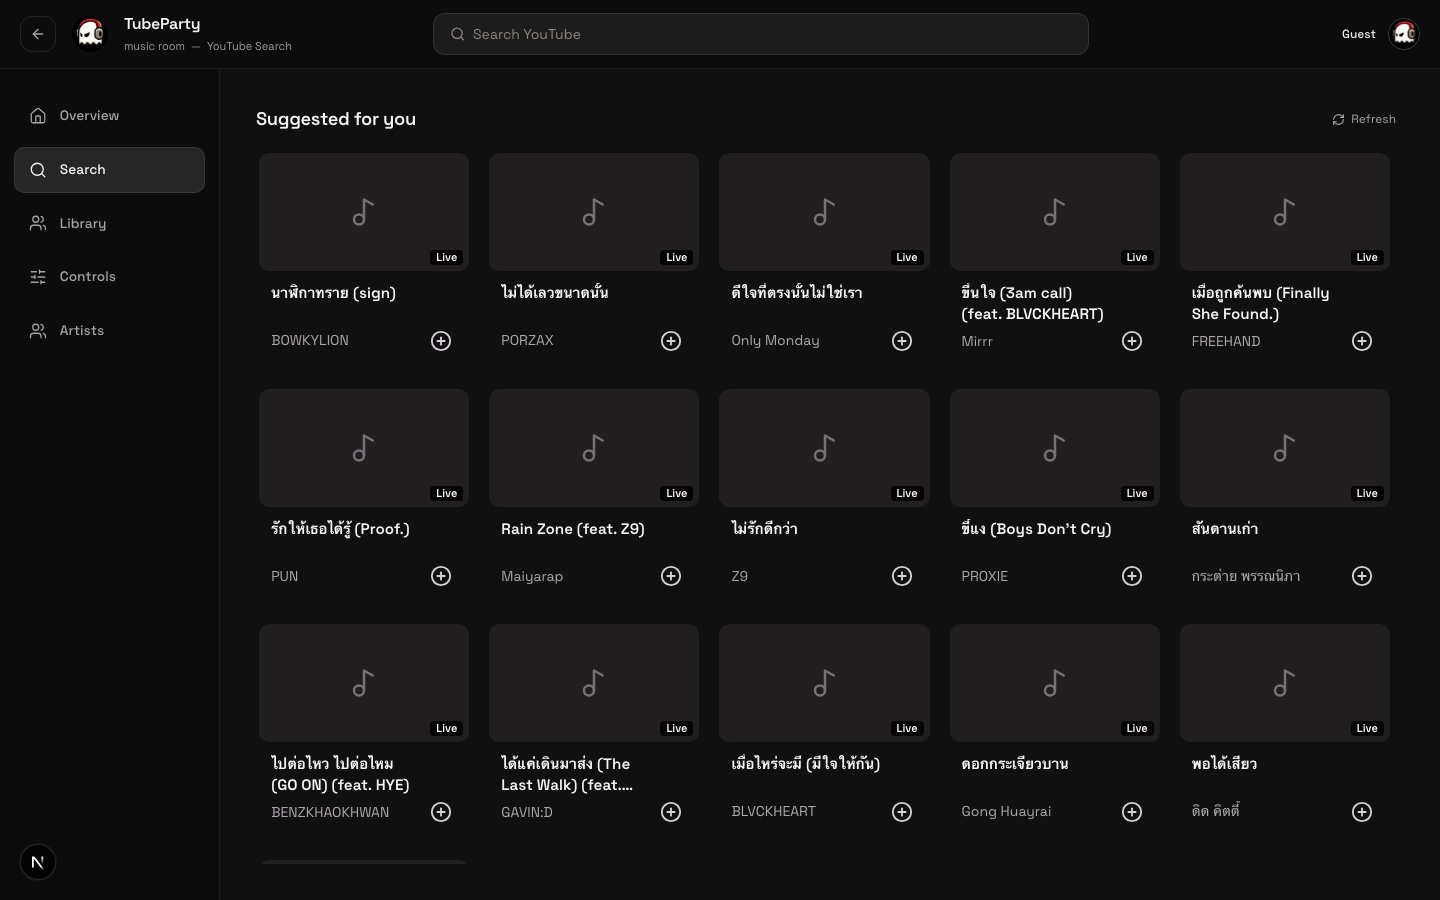
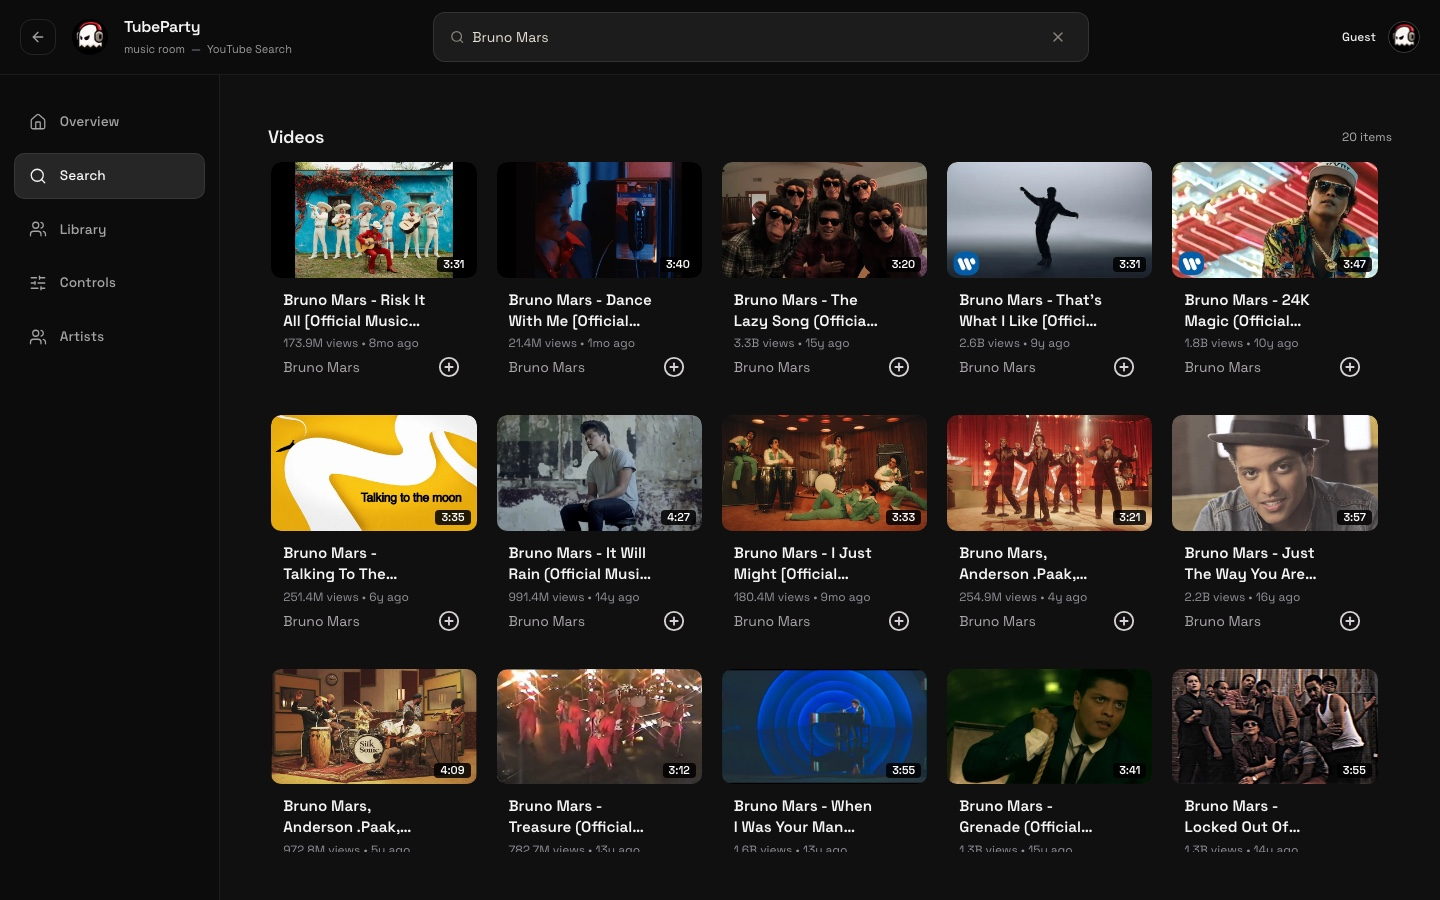
Improve project previews and fullscreen desktop windows

diff --git a/tests/e2e/portfolio.spec.js b/tests/e2e/portfolio.spec.js
@@ -106,6 +106,11 @@ test("case studies stay in one app and Back restores keyboard focus", async ({ p
 
   await expect(page.getByRole("button", { name: "View JourneyHub case study", exact: true })).toHaveCount(0);
   await expect(page.getByText("4 projects", { exact: true })).toBeVisible();
+  const tubePartyCard = page.getByRole("article").filter({ has: page.getByRole("heading", { name: "TubeParty", exact: true }) });
+  const preview = tubePartyCard.getByRole("img");
+  const previewBox = await preview.boundingBox();
+  const summaryBox = await preview.locator("..").boundingBox();
+  expect(Math.abs(previewBox.width - summaryBox.width)).toBeLessThan(2);
   const tubeParty = page.getByRole("button", { name: "View TubeParty case study", exact: true });
   await tubeParty.focus();
   await page.keyboard.press("Enter");
@@ -338,9 +343,14 @@ test("wide monitors open a centered window with working maximize and restore", a
   }
   await page.getByRole("button", { name: "Maximize window", exact: true }).click();
   await expect(page.getByRole("button", { name: "Restore window", exact: true })).toBeVisible();
-  expect((await appWindow.boundingBox()).width).toBeGreaterThan(1550);
+  const maximizedBox = await appWindow.boundingBox();
+  expect(maximizedBox).toMatchObject({ x: 0, y: 0, width: 1600, height: 900 });
+  await expect(page.getByRole("navigation", { name: "App dock", exact: true })).toBeHidden();
+  await expect(page.locator(".desktop-chrome > div").first()).toBeHidden();
   await page.getByRole("button", { name: "Restore window", exact: true }).click();
   await expect.poll(async () => Math.round((await appWindow.boundingBox()).width)).toBe(1400);
+  await expect(page.getByRole("navigation", { name: "App dock", exact: true })).toBeVisible();
+  await expect(page.locator(".desktop-chrome > div").first()).toBeVisible();
   await openApp(page, "Projects");
   await expect.poll(async () => Math.round((await appWindow.boundingBox()).width)).toBe(1400);
   expect(await page.locator(".os-content").evaluate((e) => e.scrollWidth <= e.clientWidth + 1)).toBe(true);

diff --git a/src/components/os/layouts/DesktopLayout.jsx b/src/components/os/layouts/DesktopLayout.jsx
@@ -36,7 +36,7 @@ export default function DesktopLayout({
   minimizeWindow,
 }) {
   return (
-    <div className="absolute inset-0 w-full h-full overflow-hidden">
+    <div className="desktop-layout absolute inset-0 w-full h-full overflow-hidden">
       {/* 1. BACKGROUND */}
       <div
         className="absolute z-0 pointer-events-none"
@@ -51,7 +51,9 @@ export default function DesktopLayout({
       </div>
 
       {/* 2. TOP BAR */}
-      <TopBar onOpenApp={openWindow} />
+      <div className="desktop-chrome">
+        <TopBar onOpenApp={openWindow} />
+      </div>
 
       {/* 3. LEFT ICONS AREA — fixed from top bar to above dock */}
       <div className="absolute z-10 top-14 lg:top-16 xl:top-16 left-8 grid grid-flow-col grid-rows-4 content-start gap-4 lg:gap-6 pointer-events-none px-4 pb-4 transition-transform duration-300">
@@ -83,7 +85,7 @@ export default function DesktopLayout({
       </div>
 
       {/* 6. WINDOWS LAYER */}
-      <div className="absolute inset-0 z-20 pointer-events-none pb-20">
+      <div className="desktop-windows absolute inset-0 z-20 pointer-events-none pb-20">
         <AnimatePresence>
           {openWindows.map((win) => {
             if (win.minimized) return null;
@@ -115,15 +117,17 @@ export default function DesktopLayout({
       </div>
 
       {/* 7. BOTTOM DOCK */}
-      <StatusBar
-        apps={apps}
-        appOrder={appOrder}
-        openWindows={openWindows}
-        activeWindowId={activeWindowId}
-        onOpenApp={openWindow}
-        onFocusWindow={focusWindow}
-        onMinimizeWindow={minimizeWindow}
-      />
+      <div className="desktop-chrome">
+        <StatusBar
+          apps={apps}
+          appOrder={appOrder}
+          openWindows={openWindows}
+          activeWindowId={activeWindowId}
+          onOpenApp={openWindow}
+          onFocusWindow={focusWindow}
+          onMinimizeWindow={minimizeWindow}
+        />
+      </div>
     </div>
   );
 }

diff --git a/src/components/os/Window.jsx b/src/components/os/Window.jsx
@@ -362,7 +362,7 @@ export default function Window({
       positionClass = "fixed top-[calc(var(--os-safe-top)+40px)] left-3 right-3 bottom-[calc(var(--os-safe-bottom)+100px)] z-50 rounded-[24px] !transform-none border border-white/20 bg-[#181818] ";
     } else {
       positionClass =
-        "fixed top-11 left-3 right-3 xl:left-1 xl:right-1 bottom-[80px] z-50 rounded-2xl !transform-none border border-white/10 bg-[#181818] ";
+        "fixed inset-0 z-50 !transform-none bg-[#181818] ";
     }
   } else {
     positionClass =
@@ -385,6 +385,7 @@ export default function Window({
         ref={nodeRef}
         role="region"
         aria-label={`${title.replace(/_/g, " ")} window`}
+        data-desktop-maximized={!isCompactHeader && isMaximized ? "true" : undefined}
         tabIndex={-1}
         style={{
           zIndex,
@@ -519,7 +520,7 @@ export default function Window({
           </div>
           {!isCompactHeader && <footer className="flex h-6 shrink-0 items-center justify-between gap-2 border-t border-white/10 bg-white/5 px-3 text-[10px] text-zinc-300">
             <span className="whitespace-nowrap font-medium">KAUNG OS · v2.0</span>
-            <span className="truncate">{isMobile ? "Home shows all apps" : "Use the dock below to switch apps"}</span>
+            <span className="truncate">{isMobile ? "Home shows all apps" : "Choose a section above to switch apps"}</span>
           </footer>}
         </div>
       </div>

diff --git a/src/components/apps/ProjectsApp.jsx b/src/components/apps/ProjectsApp.jsx
@@ -28,9 +28,9 @@ export default function ProjectsApp() {
   };
 
   return (
-    <div ref={rootRef} className="app-page">
+    <div ref={rootRef} className="app-page app-projects-page">
       {selected ? (
-        <article className="w-full max-w-5xl mx-auto">
+        <article className="app-project-detail w-full mx-auto">
           <button type="button" onClick={() => setSelectedId(null)}
             className="inline-flex min-h-11 items-center gap-2 rounded border border-white/10 px-3 py-2 text-xs font-bold hover:bg-white/5 mb-5">
             <ArrowLeft size={15} aria-hidden="true" /> Back to projects
@@ -138,7 +138,7 @@ export default function ProjectsApp() {
                   <span className="text-xs text-zinc-300">{project.date}</span>
                 </div>
                 <h2 id={`project-${project.id}`} className="text-xl font-bold leading-snug mb-3">{project.title}</h2>
-                <div className={`grid gap-4 mb-4 ${project.image ? "app-project-summary" : ""}`}>
+                <div className="grid gap-4 mb-4">
                   <p className="app-body">{project.desc}</p>
                   {project.image && <img src={project.image} alt={`${project.title} application screenshot`} loading="lazy" width="1440" height="900"
                     className="order-first app-project-image w-full aspect-[16/10] object-cover object-top rounded-lg border border-white/10 bg-white/5" />}

diff --git a/src/index.css b/src/index.css
@@ -129,11 +129,11 @@ a {
   .app-detail-sidebar-links { display: block; }
   .app-detail-sidebar { position: sticky; top: 0; }
 }
-.app-project-card { container: project-card / inline-size; }
-@container project-card (min-width: 480px) {
-  .app-project-summary { grid-template-columns: minmax(0, 1fr) 140px; }
-  .app-project-summary .app-project-image { order: 1; }
-}
+.app-page.app-projects-page { max-width: 1680px; }
+.app-project-detail { max-width: 1440px; }
+/* A maximized desktop app occupies the whole viewport, including the OS chrome. */
+.desktop-layout:has([data-desktop-maximized="true"]) .desktop-chrome { display: none; }
+.desktop-layout:has([data-desktop-maximized="true"]) .desktop-windows { z-index: 10000; }
 /* Laptop browser chrome leaves less height: reduce decoration, keep readable text
    and 44px controls, and leave scrolling inside the app above the OS dock. */
 @media (min-width: 1025px) and (max-height: 800px) {

diff --git a/src/data/content.js b/src/data/content.js
@@ -41,7 +41,7 @@ export const PROJECTS_DATA = [
       { title: "Discover the next track", detail: "Explore suggestions seeded by the current song, favorites, and server listening history, then add a pick directly to the queue." },
     ],
     image: "/tubeparty-preview.jpg",
-    imageCaption: "TubeParty · music discovery in the guest dashboard",
+    imageCaption: "TubeParty · international music search with video artwork",
     decisions: [
       { title: "Discord-aware access", detail: "NextAuth handles Discord login, and the dashboard lists servers where the user has Manage Server or Administrator permissions." },
       { title: "Separate playback and interface", detail: "A Next.js dashboard connects to an Express backend. Discord.js and Lavalink handle voice playback, while WebSockets deliver live updates." },

diff --git a/docs/project-content.md b/docs/project-content.md
@@ -11,7 +11,7 @@ Current evidence:
 - Linkfolio: local `linkfolio/README.md`, client/server package manifests, editor components, session helper, and public portfolio routes. No Git remote or public demo URL has been supplied.
 - SendBook: https://github.com/kaung-h-zaw/SendBook. Its repository homepage matches the user-provided https://send-book.vercel.app/ demo. `package.json`, `public/index.html`, `app/api/upload/route.ts`, and `app/api/join/route.ts` support the current name, stack, transfer workflow, and validation details. The old SENDO repository returned 404.
 
-`sendbook-preview.jpg`, `tubeparty-preview.jpg`, and `linkfolio-preview.jpg` are real browser captures. TubeParty shows the guest-accessible music discovery screen from the local Next.js app; Linkfolio shows its local landing page and example resume. No playback actions or account changes were made during capture. The KAUNG self-portfolio entry was removed to keep the archive focused on four distinct projects. No capstone screenshot has been supplied, so that project has no invented preview.
+`sendbook-preview.jpg`, `tubeparty-preview.jpg`, and `linkfolio-preview.jpg` are real browser captures. TubeParty shows the guest-accessible YouTube search screen with Bruno Mars results and loaded video thumbnails from the local Next.js app; Linkfolio shows its local landing page and example resume. No playback actions or account changes were made during capture. The KAUNG self-portfolio entry was removed to keep the archive focused on four distinct projects. No capstone screenshot has been supplied, so that project has no invented preview.
 
 The existing project dates are retained. TubeParty and Linkfolio omit dates until the owner supplies them. Confirm dates and personal contribution/challenge/learning text with the owner before changing them.
 
